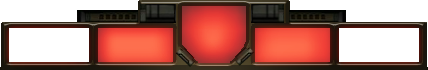
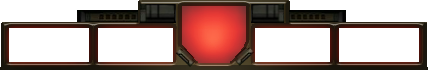
hud faceset & blinkeffekte

Changed region(s): [[0.5771, 0.4, 0.7897, 0.8857], [0.2126, 0.4, 0.4252, 0.8857]]

diff --git a/Game/Source/hud.c b/Game/Source/hud.c
@@ -59,7 +59,7 @@ PANEL* HUD_Ammo_bars =
 {
 	bmap = hud_bar_background_bmap;
 	flags = TRANSLUCENT;
-	layer = 4;
+	layer = 0;
 }
 
 TEXT* HUD_Ammo_infotext =	
@@ -102,6 +102,8 @@ PANEL* HUD_Head =
 	window(0,0, 0,0, hud_lotterhead_bmap, NULL, NULL);
 	flags = TRANSLUCENT | LIGHT;
 	layer = 3;
+	scale_x = 1.1;
+	scale_y = 1.1;
 }
 
 PANEL *hud_weapon_icon[4];
@@ -154,8 +156,8 @@ void hud_update_bar(PANEL *bar, BMAP *source, var current_value, var max_value)
 void hud_show()
 {
 	pan_setwindow(HUD_Head,1, 0,0,bmap_width(hud_lotterhead_bmap)/4, bmap_height(hud_lotterhead_bmap),hud_lotterhead_bmap, hud_lotterhead_shift, NULL);
-	HUD_Head->pos_x = (screen_size.x- bmap_width(hud_lotterhead_bmap)/4)/2;
-	HUD_Head->pos_y = screen_size.y - bmap_height(hud_lotterhead_bmap) - HUD_BORDER_PADDING;
+	HUD_Head->pos_x = (screen_size.x- bmap_width(hud_lotterhead_bmap)*HUD_Head.scale_x/4)/2;
+	HUD_Head->pos_y = screen_size.y - bmap_height(hud_lotterhead_bmap)*HUD_Head.scale_y - HUD_BORDER_PADDING;
 	set(HUD_Head, SHOW);
 	
 	
